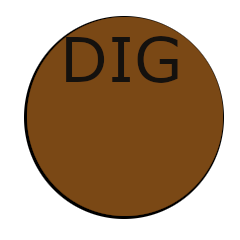
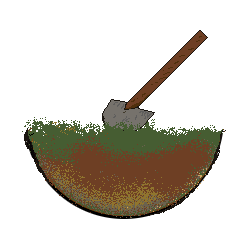
Final commit before submitting Jam?

diff --git a/js/scenes/sceneMain.js b/js/scenes/sceneMain.js
@@ -9,8 +9,22 @@ class SceneMain extends Phaser.Scene {
         this.load.image("digger","assets/mr-dig.png");
         this.load.image("eventBack","assets/eventBackground.png");
         this.load.image("testImage","assets/testImage.png");
+        this.load.image("academyImage","assets/academyImage.png");
+        this.load.image("wyrmImage","assets/wyrmImage.png");
+        this.load.image("despotImage","assets/despotImage.png");
+        this.load.image("randomImage","assets/randomImage.png");
+
         this.load.image("choiceButton","assets/choiceButton.png");
-    
+        this.load.image("influenceIcon","assets/influenceIcon.png");
+        this.load.image("artifactIcon","assets/artifactIcon.png");
+        this.load.image("knowledgeIcon","assets/knowledgeIcon.png");
+        this.load.image("sceneBackground","assets/sceneBackground.png");
+
+        
+        
+        
+
+
         //load data
         this.load.json({key:"academyData",
                         url:"js/data/academy.json"});
@@ -25,6 +39,10 @@ class SceneMain extends Phaser.Scene {
         
         //var temp = new EventBox({scene:this, event:testEvent});
 
+        var background = this.add.image(game.config.width/2,game.config.height/2,"sceneBackground");
+        background.setOrigin(0.5,0.5)
+        background.scaleX = game.config.width/background.width;
+        background.scaleY = game.config.height/background.height;
 
         //prepare model with quests & random events
         this.initializeQuests()
@@ -39,14 +57,16 @@ class SceneMain extends Phaser.Scene {
         //console.log(model.progress);
         
 		//should scale based on button size
-        var flatButton = new FlatButton({scene:this, key:"button1",x:game.config.width/2,y:game.config.height - 100, event:'button_pressed',params:"dig"});
+        var flatButton = new FlatButton({scene:this, key:"button1",x:game.config.width/2,y: Math.floor(game.config.height*0.8), event:'button_pressed',params:"dig"});
 		var digger = this.add.image(game.config.width/2,game.config.height/2,"digger");
+        digger.scaleX = 1.2;
+        digger.scaleY = 1.2;
 
         //create incremental boxes
         this.pb = new ProgressBox({scene:this});
-        this.ab = new ArtifactBox({scene:this});
-        this.ib = new InfluenceBox({scene:this});
-        this.kb = new KnowledgeBox({scene:this});
+        this.ab = new ArtifactBox({scene:this, key:"artifactIcon"});
+        this.ib = new InfluenceBox({scene:this,key:"influenceIcon"});
+        this.kb = new KnowledgeBox({scene:this,key:"knowledgeIcon"});
 
 		//initialize placement of UI elements
 		var gridConfig = {rows:11,cols:11,scene:this};
@@ -56,7 +76,7 @@ class SceneMain extends Phaser.Scene {
         this.alignGrid.placeAtIndex(1,this.ib);
         this.alignGrid.placeAtIndex(5,this.ab);
         this.alignGrid.placeAtIndex(9,this.kb);
-        this.alignGrid.placeAtIndex(49,digger);
+        this.alignGrid.placeAtIndex(71,digger);
 		//this.alignGrid.placeAtIndex(104,this.flatButton);
 		//initialize emitters
         emitter.on("button_pressed",this.buttonPressed,this);
@@ -75,7 +95,7 @@ class SceneMain extends Phaser.Scene {
 
     }
     update() {
-        if(model.artifact < 0){ // game over
+        if(model.artifact < 0 || model.eventManager.eventArr.length == 0){ // game over
             this.scene.start("SceneGameOver");
         }
     }

diff --git a/js/components/eventBox.js b/js/components/eventBox.js
@@ -12,13 +12,13 @@ class EventBox extends Phaser.GameObjects.Container{
         //choices - array of buttons
         this.eventBack = this.scene.add.image(game.config.width/2,game.config.height/2,"eventBack");
 
-        this.eventName = this.scene.add.text(this.eventBack.x,Math.floor(this.eventBack.height*0.25),this.event.eventName);
+        this.eventName = this.scene.add.text(this.eventBack.x,Math.floor(this.eventBack.height*0.215),this.event.eventName,  {fontFamily: 'Garamond', fontSize: 30, color: 'black'});
         this.eventName.setOrigin(0.5,0.5);
 
-        this.eventImage = this.scene.add.image(this.eventBack.x,Math.floor(this.eventBack.height*0.5),this.event.eventImage);
+        this.eventImage = this.scene.add.image(this.eventBack.x,Math.floor(this.eventBack.height*0.45),this.event.eventImage);
 
 
-        this.eventText = this.scene.add.text(this.eventBack.x,Math.floor(this.eventBack.height*0.75),this.event.eventText, { fontFamily: 'Arial', fontSize: 15, color: 'black',wordWrap: { width: this.eventBack.width - 25 } });
+        this.eventText = this.scene.add.text(this.eventBack.x,Math.floor(this.eventBack.height*0.71),this.event.eventText, { fontFamily: 'Garamond', fontSize: 15, color: 'black',wordWrap: { width: this.eventBack.width - 30 } });
         this.eventText.setOrigin(0.5,0.5);
         
         // var flatButton = new FlatButton({scene:this, key:"button1",x:game.config.width/2,y:game.config.height - 100, event:'button_pressed',params:"dig"});
@@ -43,9 +43,9 @@ class EventBox extends Phaser.GameObjects.Container{
             console.log(this.event.eventChoices[i].results);
             */
            //{ fontFamily: 'Arial', fontSize: 15, color: 'black',wordWrap: { width: this.eventBack.width - 25 }
-            this.buttonList[i] = new FlatButton({scene:this.scene,key:"choiceButton",x:this.eventBack.x,y:Math.floor(this.eventBack.height*0.92)+60*i,
+            this.buttonList[i] = new FlatButton({scene:this.scene,key:"choiceButton",x:this.eventBack.x,y:Math.floor(this.eventBack.height*0.90)+67*i,
                                                         params:this.event.eventChoices[i].results,text:this.event.eventChoices[i].text,
-                                                        textConfig:{color:"black", fontSize: 15, wordWrap: { width: this.eventBack.width - 25 }},event:"button_pressed"});
+                                                        textConfig:{color:"black", fontSize: 15, wordWrap: { width: this.eventBack.width - 35 }},event:"button_pressed"});
             this.add(this.buttonList[i]);
         }
         controller.gameTimer.pauseTimers();

diff --git a/js/scenes/sceneGameOver.js b/js/scenes/sceneGameOver.js
@@ -8,7 +8,25 @@ class SceneGameOver extends Phaser.Scene {
     }
     create() {
         var digger = this.add.image(game.config.width/2,game.config.height/2,"digger");
-        this.add.text("Game Over");
+        var gameOver = this.add.text(game.config.width/2,60,"Game Over",{color:"white",fontFamily: 'Garamond', fontSize: 40});
+        gameOver.setOrigin(0.5,0.5);
+
+        if(model.artifact < 0){
+            var artifactMessage = this.add.text(game.config.width/2,Math.floor(game.config.height*0.8),"You lost too many artifacts!",{color:"white",fontFamily: 'Garamond', fontSize: 30});
+            artifactMessage.setOrigin(0.5,0.5);
+        }
+        else{
+            var congratsMessage= this.add.text(game.config.width/2,Math.floor(game.config.height*0.8),"You have reached the peak of your career!",{color:"white",fontFamily: 'Garamond', fontSize: 30});
+            congratsMessage.setOrigin(0.5,0.5);
+
+        }
+
+        var influenceScore =  this.add.text(Math.floor(game.config.width*0.2) ,Math.floor(game.config.height*0.5) ,"Influence: " + model.influence,{color:"white",fontFamily: 'Garamond', fontSize: 30});
+        influenceScore.setOrigin(0.5,0.5);
+        var knowledgeScore =  this.add.text(Math.floor(game.config.width*0.2) ,Math.floor(game.config.height*0.45),"Knowledge: " + model.knowledge,{color:"white",fontFamily: 'Garamond', fontSize: 30});
+        knowledgeScore.setOrigin(0.5,0.5);
+        var artifactScore =  this.add.text(Math.floor(game.config.width*0.2) ,Math.floor(game.config.height*0.4),"Artifacts: " + model.artifact,{color:"white",fontFamily: 'Garamond', fontSize: 30});
+        artifactScore.setOrigin(0.5,0.5);
     }
     update() {}
 }

diff --git a/js/components/flatButton.js b/js/components/flatButton.js
@@ -25,6 +25,9 @@ class FlatButton extends Phaser.GameObjects.Container
 
         this.add(this.back);
         
+        //button animations
+        
+
         if (config.text)
         {
             //console.log("config.text");
@@ -45,6 +48,8 @@ class FlatButton extends Phaser.GameObjects.Container
         }
         if (config.y){
             this.y=config.y;
+            this.pos1 = this.y;
+            this.pos2 = this.y+5;
         }
         if (config.event){
             this.back.setInteractive();
@@ -53,6 +58,10 @@ class FlatButton extends Phaser.GameObjects.Container
         if(model.isMobile == -1){
             this.back.on("pointerover",this.over,this);
             this.back.on("pointerout",this.out,this);
+        }
+        else{
+            //this.back.on("pointerover",this.over,this);
+            //this.back.on("pointerout",this.out,this);
         }
 
         this.buttonActive = false;
@@ -70,17 +79,26 @@ class FlatButton extends Phaser.GameObjects.Container
     }
     over()
     {
-        this.y -=5;
+        this.y = this.pos1;
     }
     out()
     {
-        this.y +=5;
+        this.y = this.pos2;
     }
     activateButton(){
         console.log("button activated");
         this.buttonActive = true;
     }
+    togglePos(){
+        if (this.y == this.pos1){
+            this.y = this.pos2;
+        }
+        else{
+            this.y = this.pos1;
+        }
+    }
     pressed(){
+        this.togglePos();
         if (this.config.params){
             //console.log("outputting params on press");
             //console.log(this.config.params);

diff --git a/js/components/knowledgeBox.js b/js/components/knowledgeBox.js
@@ -4,9 +4,10 @@ class KnowledgeBox extends Phaser.GameObjects.Container
     {
         super(config.scene);
         this.scene = config.scene;
-
-        this.text1 = this.scene.add.text(0,0,"Knowledge: 0");
-        this.text1.setOrigin(0.5,0.5);
+        this.key = config.key;
+        this.icon = this.scene.add.image(Math.floor(game.config.width*0.85),Math.floor(game.config.height*0.05),config.key);
+        //this.text1.setOrigin(0.5,0.5);
+        this.text1 = this.scene.add.text(25,0,"0");
         this.add(this.text1);
 
         this.scene.add.existing(this);
@@ -15,8 +16,7 @@ class KnowledgeBox extends Phaser.GameObjects.Container
         
     }
     knowledgeUpdated(){
-        this.text1.setText("Knowledge: "+ model.knowledge);
-        console.log("knowledge updated (KB)");
+        this.text1.setText(model.knowledge);
     }
 
 }

diff --git a/js/components/influenceBox.js b/js/components/influenceBox.js
@@ -4,8 +4,11 @@ class InfluenceBox extends Phaser.GameObjects.Container
     {
         super(config.scene);
         this.scene = config.scene;
+        this.key = config.key;
 
-        this.text1 = this.scene.add.text(0,0,"Influence: 0");
+        this.icon = this.scene.add.image(Math.floor(game.config.width*0.15),Math.floor(game.config.height*0.05),config.key);
+        this.icon.setOrigin(0.5,0.5);
+        this.text1 = this.scene.add.text(this.icon.x-25,this.icon.y-25,"0");
         this.text1.setOrigin(0.5,0.5);
         this.add(this.text1);
 
@@ -15,8 +18,7 @@ class InfluenceBox extends Phaser.GameObjects.Container
         
     }
     influenceUpdated(){
-        this.text1.setText("Influence: "+ model.influence);
-        console.log("influence updated");
+        this.text1.setText(model.influence);
     }
 
 }

diff --git a/js/components/artifactBox.js b/js/components/artifactBox.js
@@ -5,8 +5,11 @@ class ArtifactBox extends Phaser.GameObjects.Container
         super(config.scene);
         this.scene = config.scene;
 
-        this.text1 = this.scene.add.text(0,0,"Artifacts: 0");
-        this.text1.setOrigin(0.5,0.5);
+        this.key = config.key;
+        this.icon = this.scene.add.image(Math.floor(game.config.width*0.5),Math.floor(game.config.height*0.05),config.key);
+
+        this.text1 = this.scene.add.text(25,0,"0");
+        //this.text1.setOrigin(0.5,0.5);
         this.add(this.text1);
 
         this.scene.add.existing(this);
@@ -15,7 +18,7 @@ class ArtifactBox extends Phaser.GameObjects.Container
         
     }
     artifactUpdated(){
-        this.text1.setText("Artifacts: "+ model.artifact);
+        this.text1.setText(model.artifact);
     }
 
 }

diff --git a/js/components/progressBox.js b/js/components/progressBox.js
@@ -7,13 +7,13 @@ class ProgressBox extends Phaser.GameObjects.Container
 
         this.progGoal=10;
 
-        this.text1 = this.scene.add.text(0,0,"0");
+        this.text1 = this.scene.add.text(0,0,"0",{fontFamily: 'Garamond', fontSize: 15});
         this.text1.setOrigin(0.5,0.5);
         this.add(this.text1);
     
 
 
-       this.text2 = this.scene.add.text(this.text1.x,this.text1.y+30,model.progGoal);
+       this.text2 = this.scene.add.text(this.text1.x,this.text1.y+30,model.progGoal,{fontFamily: 'Garamond', fontSize: 15});
        this.text2.setOrigin(0.5,0.5);
        this.add(this.text2);
     

diff --git a/js/utils/GameTimer.js b/js/utils/GameTimer.js
@@ -5,7 +5,7 @@ class GameTimer{
         this.status = "on";
         
         this.EventTimer = this.scene.time.addEvent({
-                    delay: 5000,                // ms 30000
+                    delay: 15000,                // ms 30000
                     callback: this.onEventFire,
                     callbackScope: this,
                     loop: true,

diff --git a/index.html b/index.html
@@ -42,7 +42,7 @@
 </head>
 <body>
 
-    <div id="idle-dig" ></div>
+    <div id="idle-dig" style="display: block; margin-left:auto;margin-right:auto"></div>
 
 </body>
 </html>
